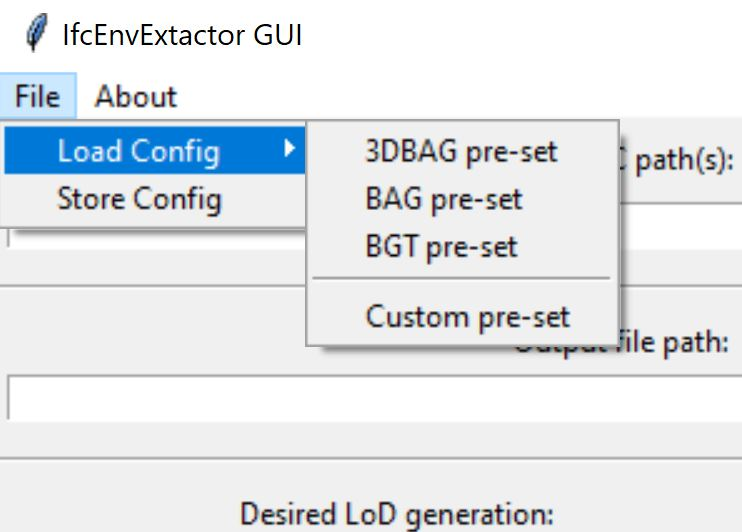
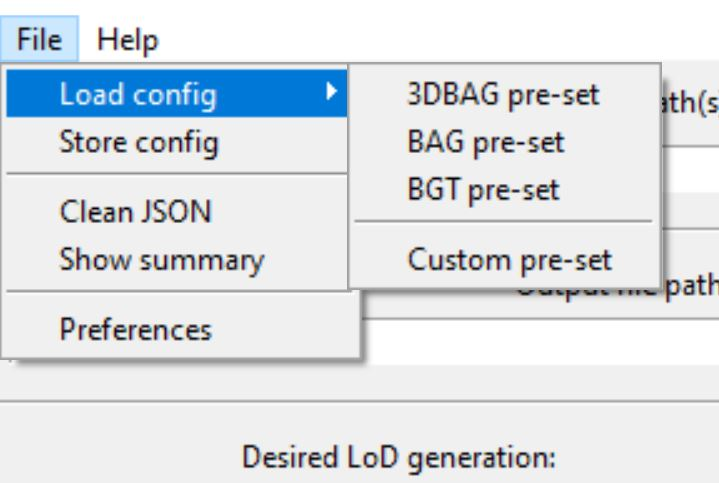
Updated readme to include new GUI

diff --git a/README.md b/README.md
@@ -115,20 +115,40 @@ IfcEnvelopeExtractor can also be operated via an GUI. This GUI enables the user 
 
 The GUI can be accessed via two routes:
 
-* In the Pre_Build folder the *Ext_GUI.exe* will start the GUI. Make sure this .exe is always in the same folder as the *Extractor.exe* files.
+* In the Pre_Build folder the *Ext_GUI.exe* or *Ext_simple_GUI.exe* will start the GUI or simple GUI respectively.
 * In the GUI_code folder the python file will also start the GUI. This would require the user to have python installed on their system.
 
-<div align="center" width="100%">
-    <img src="./Images/GUI_example.JPG" alt= “The general layout of the GUI in version v0.4” width="400">
-</div>
+<figure align="center" width="100%">
+    <img src="./Images/GUI_example.JPG" alt= “The general layout of the full GUI in version v0.4” width="47%">
+    <img src="./Images/GUI_simple_example.JPG" alt= “The general layout of the simple GUI in version v0.4” width="47%">
+    <figcaption>The general layout of the full GUI (left) and simple GUI (right) in version v0.4</figcaption>
+</figure>
 
-Only a subset of the settings is available from the GUI, if more advanced settings are required a configuration JSON file has to be created. This can be initialized by using the generate button instead of the run button. This will generate a configuration JSON representing the settings set in the GUI and place it in the same folder as the GUI. This configuration JSON can then further be edited. For more info related to the settings see [here](#configuration-json). This section also explains the settings that can be accessed via the GUI.
+Only a subset of the settings are available from the GUI, if more advanced settings are required a configuration JSON file has to be created. This can be done completely manually, but the GUI can also help. By going to “File -> Store config” the current settings set in the GUI can be saved to a configJSON file which can be used as is, or further edited with more advanced settings. For more info related to the settings see [here](#configuration-json). This section also explains the settings that can be accessed via the GUI.
 
-<div align="center" width="100%">
-    <img src="./Images/GUI_example_customJSON.JPG" alt= “Isolation of the location of the pre-set configJSON files” width="300">
-</div>
+<figure align="center" width="100%">
+    <img src="./Images/GUI_example_customJSON.JPG" alt= “The location of the pre-set configJSON files” width="47%">
+    <figcaption>The location of the pre-set configJSON files</figcaption>
+</figure>
 
-The GUI also give the option to load pre-set configJSON files. These will be accessible in the top bar via "Settings -> Load Config". The "Load config" menu is populated with files that are stored in the *default-data* folder that is located in the same folder as the GUI. By default this folder is populated with config files that generate output that meet the requirements of geometry for the Dutch BAG, BGT and 3DBAG databases. Users can add their own config files in this folder which will be added to the "Load Config" upon reopening the GUI (with a max of 10 files). Other configJSON files can be opened via "Settings -> Load Config -> Custom pre-set".
+The GUI also give the option to load pre-set configJSON files. These will be accessible in the top bar via "File -> load Config". The "Load config" menu is populated with files that are stored in the *default-data* folder that is located in the same folder as the GUI. By default this folder is populated with config files that generate output that meet the requirements of geometry for the Dutch BAG, BGT and 3DBAG databases. Users can add their own config files in this folder. These will be added to the "Load Config" menu upon reopening the GUI (with a max of 10 files). Other configJSON files can be opened via "File -> Load Config -> Custom pre-set".
+
+Via "File -> Preferences" the folder can be changed from which "File -> Load config" is populated. This can be useful if there is a different folder where these pre made config files are stored.
+
+<figure align="center" width="100%">
+    <img src="./Images/GUI_startup_error.JPG" alt= “The error shown on startup if executables cannot be found”  width="47%">
+    <img src="./Images/GUI_running_error.JPG" alt= “The error shown on running the extractor if executables cannot be found” width="39.2%">
+    <figcaption>If the GUI is unable to find the folder where the executables are stored it will throw an error on GUI startup (left) or on running the extractor (right). This can be resolved by updating the env_extractor path in the preferences menu </figcaption>
+</figure>
+
+The "File -> Preferences" menu also allows the user to change the location where the envelope extractor executables (.exe) files are stored. By default the GUI looks for the executables in the same folder as the GUI or a folder named *binary* that is placed in the same folder as the GUI. If the executables are placed at a non-default location and this is not specified in the preference menu the GUI will throw an error on startup and on running of the extractor.
+
+<figure align="center" width="100%">
+    <img src="./Images/GUI_jsonSummary_example.JPG" alt= “The summary window showing the summary of the generic starting data of the GUI width="47%">
+    <figcaption>The summary window showing the summary of the generic starting data of the GUI</figcaption>
+</figure>
+
+A pre-loaded config file can also store settings that are not exposed in the GUI. To see the complete configuration go to "File -> Show Summary". If these settings are not desired, it is possible to remove these unexposed "advanced" settings by using "File -> Clean JSON". This will remove every setting that the GUI can not set. This option is not available in the simple GUI to avoid accidental errors.
 
 ## Input file requirements
 
